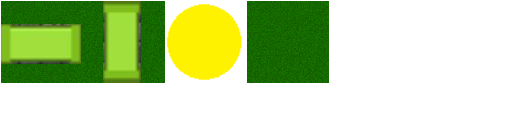
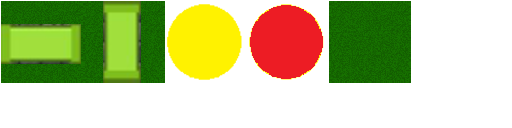
temp

Changed region(s): [[0.4688, 0.0, 0.8125, 0.6562]]

diff --git a/core/src/com/imbabot/pacman_game/Units/Packman.java b/core/src/com/imbabot/pacman_game/Units/Packman.java
@@ -1,0 +1,71 @@
+package com.imbabot.pacman_game.Units;
+
+import com.badlogic.gdx.Gdx;
+import com.badlogic.gdx.Input;
+import com.badlogic.gdx.graphics.Texture;
+import com.badlogic.gdx.graphics.g2d.BitmapFont;
+import com.badlogic.gdx.graphics.g2d.SpriteBatch;
+import com.badlogic.gdx.graphics.g2d.TextureAtlas;
+import com.badlogic.gdx.graphics.g2d.TextureRegion;
+import com.badlogic.gdx.math.Vector2;
+import com.imbabot.pacman_game.Direction;
+import com.imbabot.pacman_game.GameController;
+import com.imbabot.pacman_game.GameMap;
+
+
+public class Packman extends Unit{
+
+    private float speed;
+    private StringBuilder stringBuilder;
+    private int score;
+    private TextureRegion texture;
+
+
+    public Packman(TextureAtlas atlas, GameController gc){
+        super(gc, 1, 1);
+        this.speed = 5f;
+        this.stringBuilder = new StringBuilder();
+        this.score = 0;
+        this.texture = atlas.findRegion("Pacman");
+    }
+
+    public void update(float dt){
+        Direction direction = null;
+       if (direction == Direction.RIGHT) {
+           cellX += speed;
+      }else if (direction == Direction.LEFT){
+           cellX -= speed * dt;
+        }else if (direction == Direction.LEFT){
+            cellY += speed * dt;
+        }else if (direction == Direction.BOTTOM){
+            cellY -= speed * dt;
+        }
+        movement(dt);
+    }
+
+    public void movement(float dt){
+       Direction direction = null;
+       if (Gdx.input.isKeyJustPressed(Input.Keys.D)){
+          direction = Direction.RIGHT;
+      }else if (Gdx.input.isKeyJustPressed(Input.Keys.A)){
+           direction = Direction.LEFT;
+       }else if (Gdx.input.isKeyJustPressed(Input.Keys.W)){
+           direction = Direction.TOP;
+        }else if (Gdx.input.isKeyJustPressed(Input.Keys.S)){
+           direction = Direction.BOTTOM;
+        }
+    }
+
+
+    public void renderGUI(SpriteBatch batch, BitmapFont font){
+        stringBuilder.setLength(0);
+        stringBuilder.append("Score: " + score);
+        font.draw(batch, stringBuilder, 10, 700);
+    }
+
+    public void render(SpriteBatch batch){
+        batch.draw(texture, cellX * GameMap.CELL_SIZE, cellY * GameMap.CELL_SIZE);
+    }
+
+
+}

diff --git a/core/src/com/imbabot/pacman_game/GameController.java b/core/src/com/imbabot/pacman_game/GameController.java
@@ -1,19 +1,28 @@
 package com.imbabot.pacman_game;
 
 import com.badlogic.gdx.graphics.g2d.TextureAtlas;
+import com.imbabot.pacman_game.Units.Monster;
+import com.imbabot.pacman_game.Units.Packman;
 
 public class GameController {
 
-    private Hero hero;
+    private Packman packman;
     private GameMap gameMap;
+    private Monster monster;
 
     public GameController(TextureAtlas atlas){
         this.gameMap = new GameMap(atlas);
-        this.hero = new Hero(atlas, this);
+        this.packman = new Packman(atlas, this);
+        this.monster = new Monster(atlas, this);
     }
 
-    public Hero getHero() {
-        return hero;
+
+    public Monster getMonster() {
+        return monster;
+    }
+
+    public Packman getHero() {
+        return packman;
     }
 
     public GameMap getGameMap() {
@@ -23,6 +32,7 @@ public class GameController {
 
     public void update(float dt){
         gameMap.update(dt);
-        hero.update(dt);
+        packman.update(dt);
+        monster.update(dt);
     }
 }

diff --git a/core/src/com/imbabot/pacman_game/Units/Monster.java b/core/src/com/imbabot/pacman_game/Units/Monster.java
@@ -1,0 +1,26 @@
+package com.imbabot.pacman_game.Units;
+
+import com.badlogic.gdx.graphics.g2d.SpriteBatch;
+import com.badlogic.gdx.graphics.g2d.TextureAtlas;
+import com.imbabot.pacman_game.GameController;
+import com.imbabot.pacman_game.GameMap;
+
+public class Monster extends Unit{
+
+
+    public Monster(TextureAtlas atlas, GameController gc) {
+        super(gc, 5, 5);
+        this.texture = atlas.findRegion("MonsterRed");
+    }
+
+    @Override
+    public void update(float dt) {
+
+    }
+
+
+    public void render(SpriteBatch batch){
+        batch.draw(texture, cellX * GameMap.CELL_SIZE, cellY * GameMap.CELL_SIZE);
+    }
+
+}

diff --git a/core/src/com/imbabot/pacman_game/Units/Unit.java b/core/src/com/imbabot/pacman_game/Units/Unit.java
@@ -1,0 +1,24 @@
+package com.imbabot.pacman_game.Units;
+
+import com.badlogic.gdx.graphics.g2d.SpriteBatch;
+import com.badlogic.gdx.graphics.g2d.TextureAtlas;
+import com.badlogic.gdx.graphics.g2d.TextureRegion;
+import com.imbabot.pacman_game.GameController;
+import com.imbabot.pacman_game.GameMap;
+
+public abstract class Unit {
+
+    int cellX;
+    int cellY;
+    GameController gc;
+    TextureRegion texture;
+
+    public Unit(GameController gc, int cellX, int cellY){
+        this.gc = gc;
+        this.cellX = cellX;
+        this.cellY = cellY;
+    }
+
+
+    public abstract void update(float dt);
+}

diff --git a/core/src/com/imbabot/pacman_game/GameMap.java b/core/src/com/imbabot/pacman_game/GameMap.java
@@ -41,6 +41,9 @@ public class GameMap {
         if (data[(int) CX][(int) CY] == TERRAIN_WALL){
             return false;
         }
+        if (data[(int) CX][(int) CY] == TOP_WALL){
+            return false;
+        }
         return true;
     }
 
@@ -106,8 +109,6 @@ public class GameMap {
                 data[12][4] = 2;
                 data[12][3] = 2;
                 data[12][2] = 2;
-
-
 
             }
         }

diff --git a/core/src/com/imbabot/pacman_game/PacmanGame.java b/core/src/com/imbabot/pacman_game/PacmanGame.java
@@ -33,6 +33,7 @@ public class PacmanGame extends ApplicationAdapter {
 		batch.begin();
 		gameController.getGameMap().render(batch);
 		gameController.getHero().render(batch);
+		gameController.getMonster().render(batch);
 		gameController.getHero().renderGUI(batch, font32);
 		batch.end();
 	}

diff --git a/core/src/com/imbabot/pacman_game/Direction.java b/core/src/com/imbabot/pacman_game/Direction.java
@@ -1,5 +1,5 @@
 package com.imbabot.pacman_game;
 
 public enum Direction {
-    RIGHT,LEFT,TOP,BUTTON;
+    RIGHT,LEFT,TOP,BOTTOM;
 }
